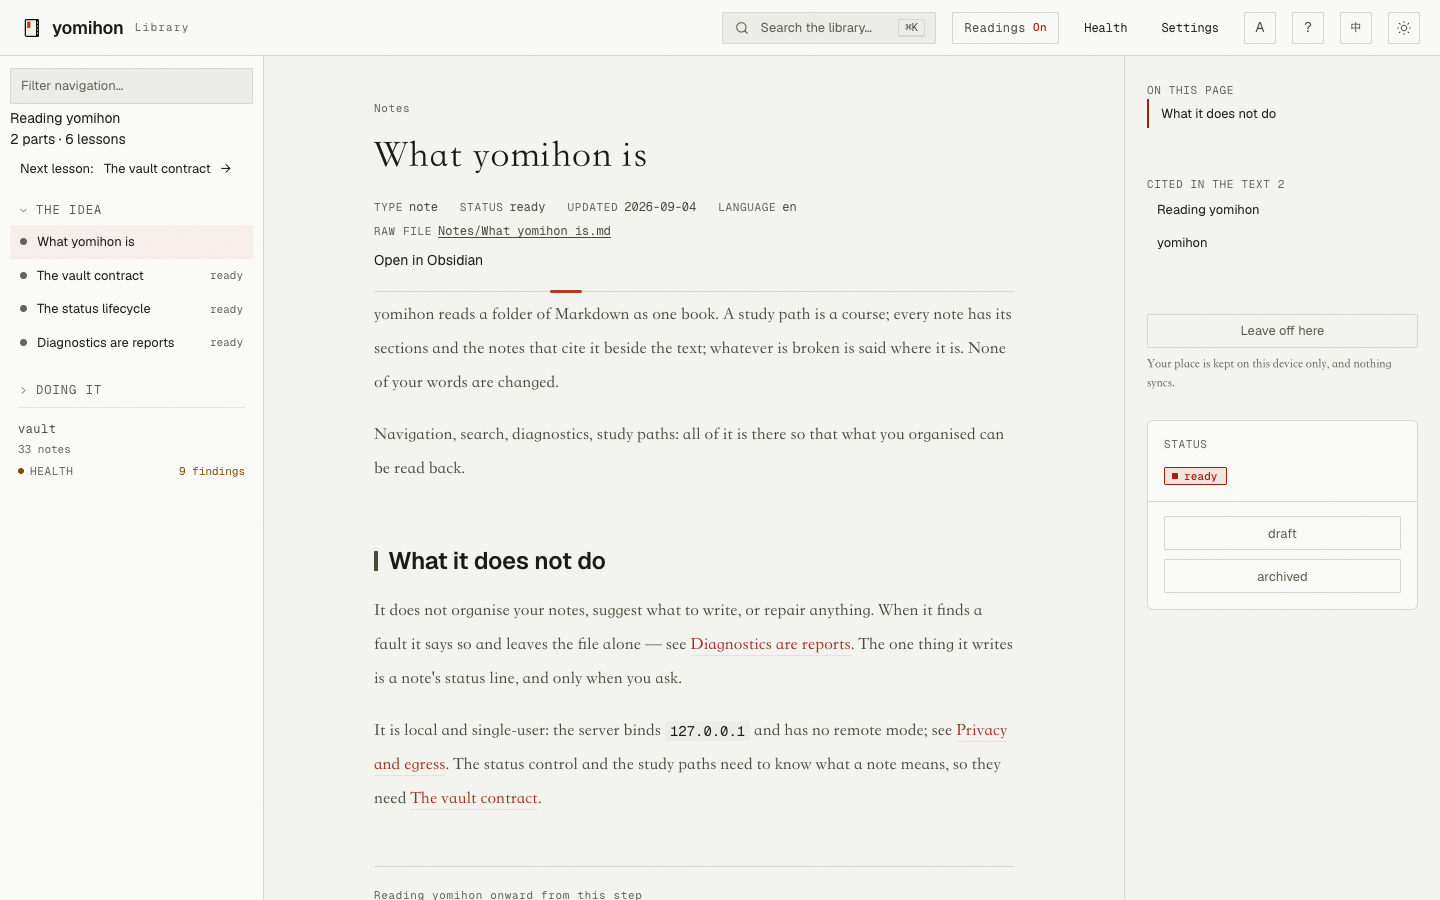
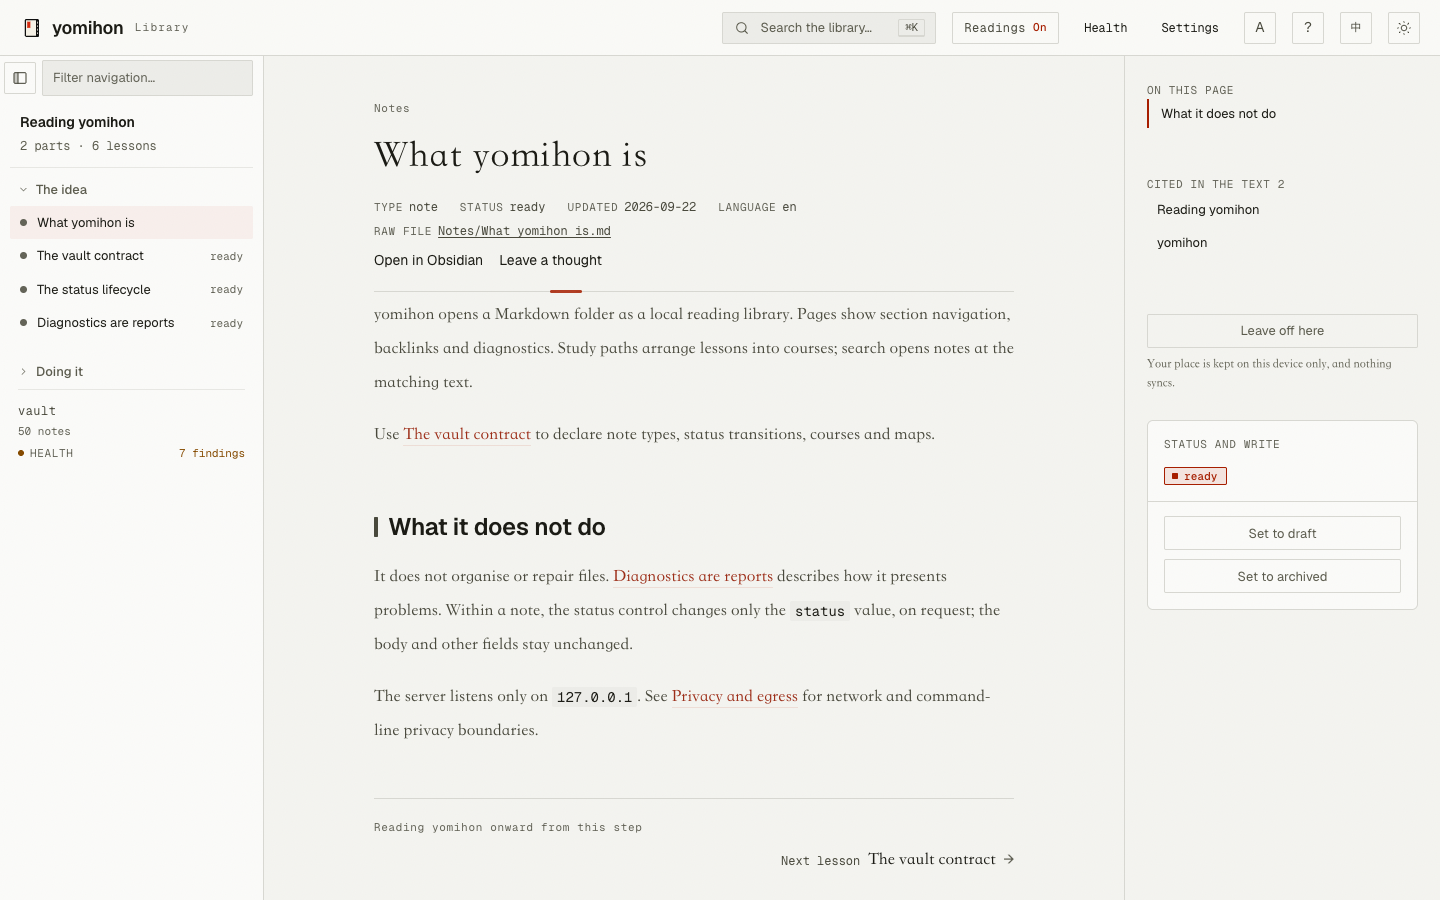
docs: point installation at the v0.3.0 release
- Both READMEs: one install path in the same order (release download, then `go install @latest`, then run), linking the latest-release page. The platform sentence (status changes: macOS and Linux yes, Windows refused) is checked in `internal/status`. The example vault is said to come with the source archive or a clone.
- `.github/SECURITY.md`: attestation example uses v0.3.0.
- `CONTRIBUTING.md`: short "Before you tag a release" checklist.
- README screenshots regenerated with `make screenshots` from main at 5bce077a (merged into this branch).

diff --git a/CONTRIBUTING.md b/CONTRIBUTING.md
@@ -315,6 +315,28 @@ squashed or rebased, and both carry your branch's commit messages into `main`,
 so a trailer written on the branch becomes a trailer in the history. If your
 tooling appends one you cannot remove, say so in the pull request.
 
+## Before you tag a release
+
+Also whenever the public screenshots or the README's reading claims change.
+Check that:
+
+- the version, `README.md` and `README.zh-TW.md` agree, and both READMEs give
+  the same install path, linking the latest-release page rather than one
+  version's asset;
+- the platform assets `release.yml` builds match what the READMEs promise, and
+  the Windows limit (status changes refused) is still stated where the install
+  choice is;
+- `go install github.com/koopa0/yomihon/cmd/yomihon@<the commit>` in a
+  disposable `GOBIN`, `GOMODCACHE` and `GOCACHE` installs the module you expect,
+  without touching your own binary;
+- the example vault comes from the same revision as the binary;
+- every behaviour a screenshot shows still happens at that commit, and the
+  images were regenerated with `make screenshots`.
+
+After the tag publishes, download one asset and check it against `SHA256SUMS`
+and `go version -m`, and confirm `go list -m github.com/koopa0/yomihon@latest`
+reports the new version.
+
 ## Report a vulnerability
 
 Report privately through

diff --git a/README.md b/README.md
@@ -25,11 +25,18 @@ below is for.
 
 ## Install
 
+[Download a binary](https://github.com/koopa0/yomihon/releases/latest) from the
+latest release, or, with Go 1.27 or newer:
+
 ```sh
 go install github.com/koopa0/yomihon/cmd/yomihon@latest
 ```
 
-Needs Go 1.27 or newer.
+Reading works on macOS, Linux and Windows. Changing a note's status works on
+macOS and Linux; Windows refuses it.
+
+The example vault comes with the source, not the binary: take it from the
+release's source archive, or clone this repository.
 
 ## Use
 

diff --git a/.github/SECURITY.md b/.github/SECURITY.md
@@ -27,7 +27,7 @@ that the file you downloaded was built by this repository's release workflow
 from a specific commit, run:
 
 ```bash
-gh attestation verify yomihon_v0.2.0_darwin_arm64 --repo koopa0/yomihon
+gh attestation verify yomihon_v0.3.0_darwin_arm64 --repo koopa0/yomihon
 ```
 
 The command names the repository and the workflow that produced the binary, and
